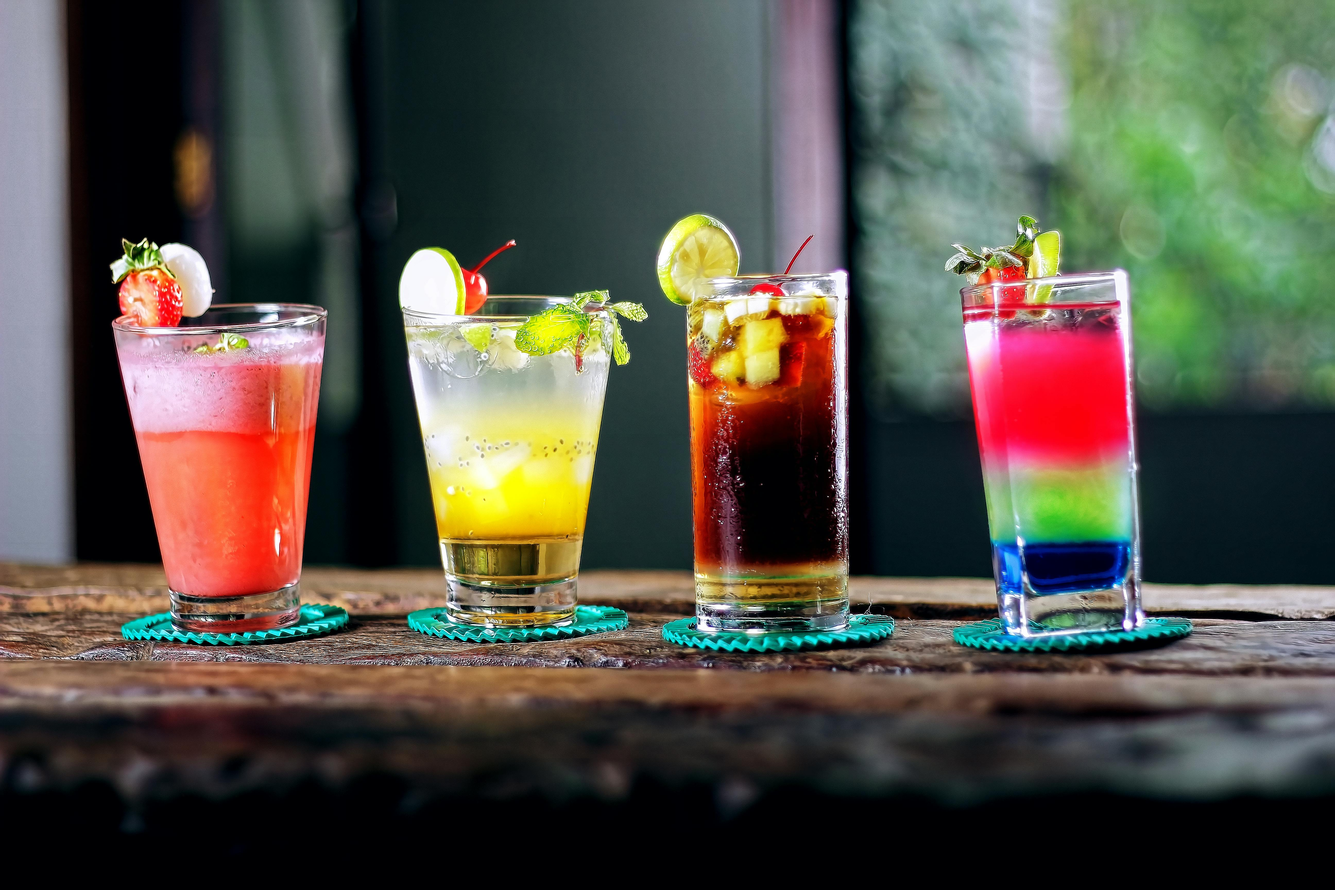
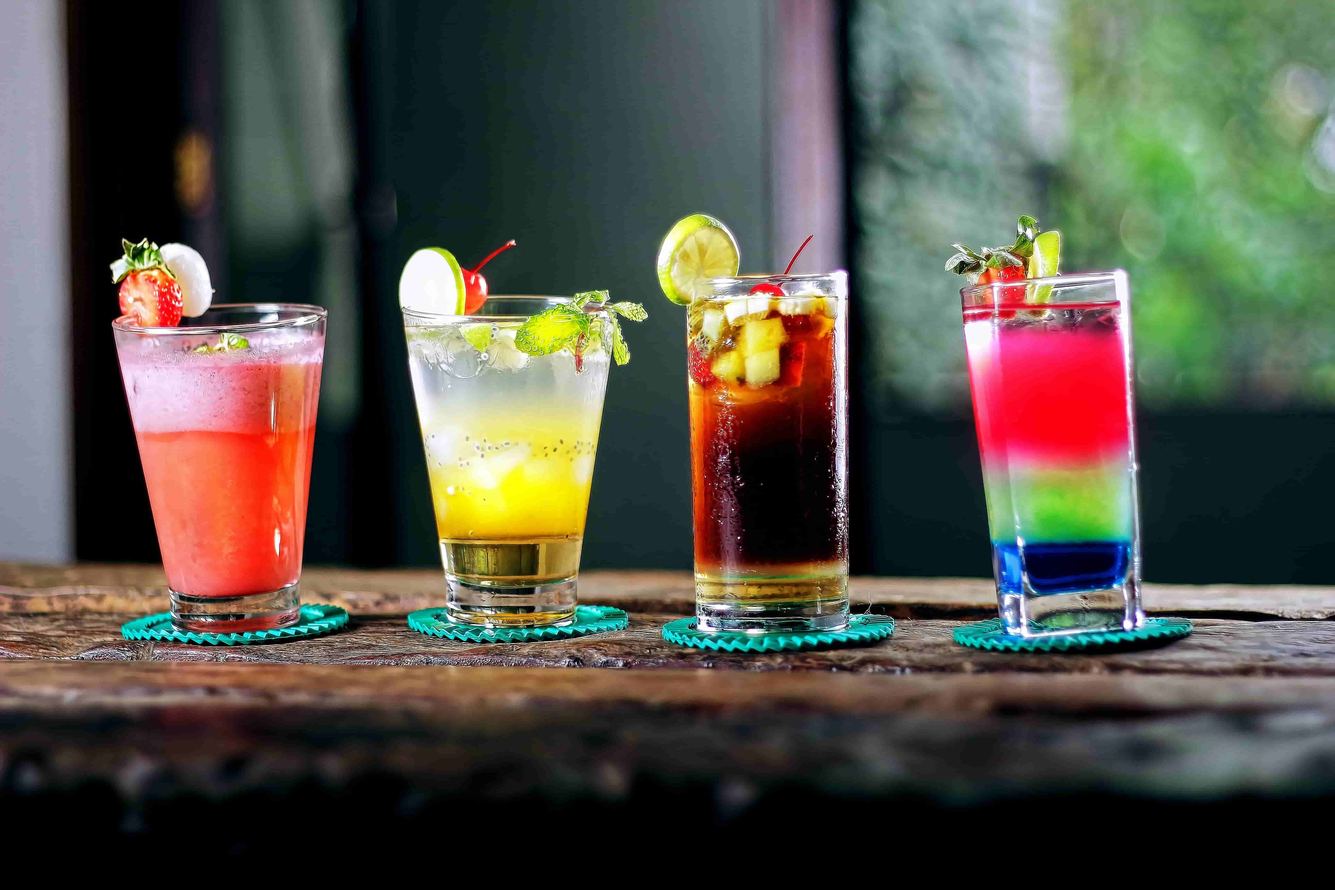
Compressão das Imagens

diff --git a/src/home.html b/src/home.html
@@ -159,31 +159,22 @@
             </div>
         </section>
 
-        <section id="contact">
+        <section id="order">
             <div class="titulo">
-                <h2>Contato</h2>
+                <h2>Faça Seu Pedido</h2>
             </div>
-            <p>Entre em contato conosco!</p>
-            <form action="#">
-                <label for="name">Nome:</label>
-                <input type="text" id="name" name="name" required>
-                
-                <label for="email">E-mail:</label>
-                <input type="email" id="email" name="email" required>
+            <br>
+            <form action="/pedido" method="post" class="order-form">
+                <label for="pedido">Seu Pedido:</label>
+                <div id="order-summary">
+                    <p id="order-total">Carrinho vazio.</p>
+                </div>
+                <button id="clear-cart">Limpar Carrinho</button>
+                <button id="place-order">Realizar Pedido</button>
 
-                <label for="message">Mensagem:</label>
-                <textarea id="message" name="message" rows="4" required></textarea>
-
-                <button type="submit">Enviar</button>
-                <button type="button" onclick="document.getElementById('name').value=''; document.getElementById('email').value=''; document.getElementById('message').value='';">Limpar</button>
             </form>
         </section>
 
-        <section id="order-summary">
-            <h2>Resumo do Pedido</h2>
-            <ul id="order-summary"></ul>
-            <h3 id="order-total">Total: R$ 0,00</h3>
-        </section>
     </main>
 
     <footer>

diff --git a/src/scripts/scriptPagamento.ts b/src/scripts/scriptPagamento.ts
@@ -80,15 +80,15 @@ document.addEventListener("DOMContentLoaded", () => {
   // Função para redirecionar à página de entrega
   function redirectToDeliveryPage(): void {
     // Verificação de caminho seguro para redirecionamento
-    window.location.href = "/src/paginas/entrega.html";
+    window.location.replace('/src/paginas/entrega.html');
   }
 
   // Botão "Realizar Pedido" - Salva os dados e chama a função de redirecionamento
   const placeOrderButton = document.getElementById("place-order");
   placeOrderButton?.addEventListener("click", () => {
-    const nameInput = document.getElementById("name") as HTMLInputElement | null;
-    const addressInput = document.getElementById("address") as HTMLInputElement | null;
-    const phoneInput = document.getElementById("phone") as HTMLInputElement | null;
+    const nameInput = document.getElementById("nome-cliente") as HTMLInputElement | null;
+    const addressInput = document.getElementById("endereco-cliente") as HTMLInputElement | null;
+    const phoneInput = document.getElementById("telefone-cliente") as HTMLInputElement | null;
 
     if (!nameInput || !addressInput || !phoneInput) {
       console.error("Element not found");

diff --git a/server.js b/server.js
@@ -1,0 +1,42 @@
+const express = require('express');
+const fs = require('fs');
+const path = require('path');
+
+const app = express();
+app.use(express.json());
+
+// Configurar pasta de arquivos estáticos
+app.use(express.static(path.join(__dirname, 'src')));
+
+// Rota para salvar o pedido
+app.post('/save-order', (req, res) => {
+  const pedido = req.body;
+
+  const filePath = path.join(__dirname, 'src/scripts/pedidos.json');
+
+  fs.readFile(filePath, 'utf8', (err, data) => {
+    if (err) {
+      return res.status(500).json({ message: 'Erro ao ler o arquivo de pedidos' });
+    }
+
+    let pedidos = [];
+    if (data) {
+      pedidos = JSON.parse(data);
+    }
+
+    pedidos.push(pedido);
+
+    fs.writeFile(filePath, JSON.stringify(pedidos, null, 2), (err) => {
+      if (err) {
+        return res.status(500).json({ message: 'Erro ao salvar o pedido' });
+      }
+
+      res.status(200).json({ message: 'Pedido salvo com sucesso!' });
+    });
+  });
+});
+
+// Inicia o servidor na porta 3000
+app.listen(3000, () => {
+  console.log('Servidor rodando em http://localhost:3000');
+});

diff --git a/src/scripts/scriptPagamento.js b/src/scripts/scriptPagamento.js
@@ -68,7 +68,7 @@ document.addEventListener("DOMContentLoaded", () => {
     // Função para redirecionar à página de entrega
     function redirectToDeliveryPage() {
         // Verificação de caminho seguro para redirecionamento
-        window.location.href = "/src/paginas/entrega.html";
+        window.location.replace('/src/paginas/entrega.html');
     }
     // Botão "Realizar Pedido" - Salva os dados e chama a função de redirecionamento
     const placeOrderButton = document.getElementById("place-order");
@@ -105,5 +105,5 @@ document.addEventListener("DOMContentLoaded", () => {
         redirectToDeliveryPage();
     });
     // Carregar e exibir o resumo do pedido ao carregar a página
-    //loadOrderSummary();
+    loadOrderSummary();
 });
